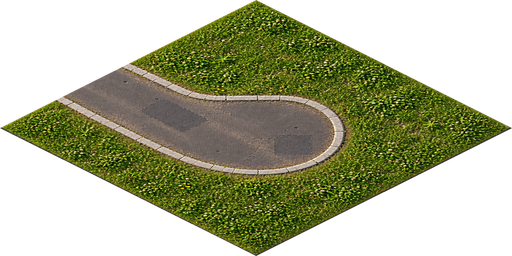
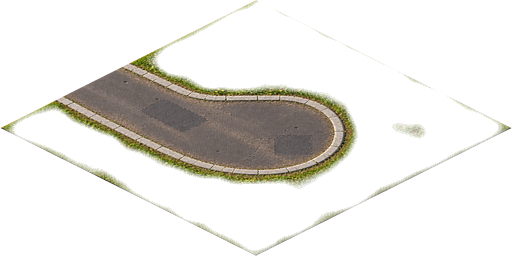
Silnice: vyriznuta trava, zatacky sedi na krizovatku, typ v karticce
1) Zatacky. Vozovka v nich potkavala hranu mimo stred, takze se na styku
   s rovinkou uskocila -- coz vypada jako otocena zatacka i jako nenavazujici
   spoj. Prompt je ted popisuje jako krizovatku, ktere dve ramena zarostla,
   a generuji se s krizovatkou jako vzorem. Sest dlazdic pregenerovano.

2) Dlazdicovost. Kazda dlazdice si nesla vlastni travnik a travniky se mezi
   obrazky lisily odstinem i hustotou, takze byla na mape videt mrizka.
   `fit-roads.py` travu vyrizne a zustane jen vozovka s obrubnikem; pod ni
   je skutecny teren, souvisly pres dlazdice.

   Prahy jsou zmerene, ne odhadnute: asfalt ma zelen -20 az -5, trava od 15
   vys, obrubnik kolem nuly. Prvni odhad 4 az 16 nechal polovinu travy
   polopruhlednou. A rozhoduje okoli, ne pixel -- zlute kvitky v trave same
   zelene nejsou a po prahovani po pixelech z nich zustaly tecky.

   Trava se rezе pred maskou kosoctverce: kdyby uz bylo za hranou pruhledno,
   rozostreni by tam zelen srazilo a po obvodu by zustal zeleny lem.

3) a 4) Karticka ukazuje typ silnice, kdyz na dlazdici nejaka je. Bez toho
   neslo poznat, jestli je vadny obrazek, nebo jen jiny typ.

5) Kontaktni list vsech sestnacti masek slozenych tak, jak je sklada renderer,
   ukazal, ze preklopeni je v poradku a vada byla jen v obrazcích zatacek.

diff --git a/src/ui/buildingInfo.ts b/src/ui/buildingInfo.ts
@@ -3,7 +3,7 @@ import type { Definition } from '@/content/schema';
 import type { ParcelExplanation } from '@/sim/diagnostics';
 import { buildingMonthlyTax, buildingMonthlyUpkeep } from '@/sim/systems/economy';
 import type { Building, WorldState } from '@/sim/world';
-import { TERRAIN } from '@/sim/layers';
+import { ROAD, TERRAIN } from '@/sim/layers';
 import { iconSvg } from './icons';
 import { button, el } from './dom';
 import { formatNumber, landValueTermKeys } from './format';
@@ -15,6 +15,19 @@ import type { I18n } from './i18n';
  * takže to musí sedět na `TERRAIN` v `sim/layers.ts` — na pořadí, ne na jméno
  * konstanty.
  */
+/**
+ * Jméno typu silnice pro překlad. Index je hodnota vrstvy `road`.
+ *
+ * Ukazuje se **jen když na dlaždici silnice opravdu je**. Autor si stěžoval,
+ * že u divně vypadající vozovky nepozná, jestli je vadný obrázek, nebo jen
+ * jiný typ — bez tohohle řádku se to z panelu vyčíst nedalo.
+ */
+const ROAD_KEYS: Readonly<Record<number, string>> = {
+  [ROAD.street]: 'street',
+  [ROAD.avenue]: 'avenue',
+  [ROAD.highway]: 'highway',
+};
+
 const TERRAIN_KEYS: Readonly<Record<number, string>> = {
   [TERRAIN.grass]: 'grass',
   [TERRAIN.water]: 'water',
@@ -307,6 +320,14 @@ export class BuildingInfo {
 
     parent.appendChild(el('h3', 'sheet__subtitle', t('ui.parcel.title')));
     this.appendSurface(parent, parcel.terrain);
+
+    const road = ROAD_KEYS[parcel.road];
+    if (road !== undefined) {
+      const row = el('div', 'sheet__surface');
+      const badge = el('div', 'sheet__surface-tile sheet__surface-tile--road');
+      row.append(badge, el('span', 'sheet__surface-name', t(`ui.road.${road}`)));
+      parent.appendChild(row);
+    }
 
     // Nejdřív odpověď na otázku, se kterou sem hráč přišel: proč se tu nestaví.
     // Teprve pod ní čísla, ze kterých se to dá odvodit.

diff --git a/src/sim/diagnostics.ts b/src/sim/diagnostics.ts
@@ -286,6 +286,11 @@ export interface ParcelExplanation {
   x: number;
   y: number;
   terrain: number;
+  /**
+   * Typ silnice **na téhle dlaždici**, ne u nejbližší. Nula znamená „tady
+   * silnice není" a je to jiná informace než `roadDistance`.
+   */
+  road: number;
   zone: number;
   category: RciCategory | null;
   /** Vzdálenost k nejbližší silnici; `null` znamená „dál, než kam růst sahá". */
@@ -457,6 +462,7 @@ export function explainParcel(
     x,
     y,
     terrain: world.layers.terrain[tile] ?? TERRAIN.grass,
+    road: world.layers.road[tile] ?? 0,
     zone,
     category,
     roadDistance: roadFactor > 0 ? distance : null,

diff --git a/src/style.css b/src/style.css
@@ -1497,3 +1497,9 @@ body {
 .lightbox__close:hover {
   border-color: #eef3f5;
 }
+
+/* Odznak typu silnice v rozboru parcely. Kosočtverec jako u povrchu, ale
+   plná barva — obrázek vozovky je průhledný a na kartičce by nebyl vidět. */
+.sheet__surface-tile--road {
+  background: #4a4b52;
+}

diff --git a/tools/fit-roads.py b/tools/fit-roads.py
@@ -20,7 +20,7 @@ import sys
 from collections import defaultdict
 
 import numpy as np
-from PIL import Image, ImageDraw
+from PIL import Image, ImageDraw, ImageFilter
 
 ROOT = os.path.dirname(os.path.dirname(os.path.abspath(__file__)))
 RAW = os.path.join(ROOT, 'art', 'roads', 'raw')
@@ -35,6 +35,18 @@ ALPHA_FLOOR = 8
 
 # Jak hluboko od hrany se meri. Uplne na hrane je antialiasing.
 PROBE = 6
+
+# Zelen, pod kterou je pixel jiste vozovka, a nad kterou jiste trava.
+#
+# **Zmereno, ne odhadnuto.** V krizovatce ma asfalt zelen od -20 do -5, trava
+# od 15 vys; mezi tim lezi obrubnik kolem nuly. Prah 0 az 9 je proto rozdeli
+# a obrubnik nechá cely. Prvni odhad 4 az 16 nechal polovinu travy
+# polopruhlednou a vypadalo to jako plisen.
+GRASS_LOW = 0
+GRASS_HIGH = 9
+
+# Jak daleko se kouka do okoli. Sest pixelu z 512 je asi metr skutecne zeme.
+GRASS_BLUR = 6
 
 # Vetsi odchylka od medianu rodiny uz je vada, kterou je videt jako schod.
 TOLERANCE = 0.08
@@ -64,8 +76,11 @@ def to_tile(image, corners):
     """
     top, right, bottom, left = corners
     box = (int(left[0]), int(top[1]), int(right[0]) + 1, int(bottom[1]) + 1)
-    tile = image.crop(box).resize((WIDTH, HEIGHT), Image.LANCZOS)
+    return image.crop(box).resize((WIDTH, HEIGHT), Image.LANCZOS).convert('RGBA')
 
+
+def diamond_mask():
+    """Maska presneho kosoctverce. Tvar delame my, ne generator."""
     # Maska se kresli ve ctyrnasobku a zmensi, jinak jsou hrany zubate.
     scale = 4
     mask = Image.new('L', (WIDTH * scale, HEIGHT * scale), 0)
@@ -78,25 +93,40 @@ def to_tile(image, corners):
         ],
         fill=255,
     )
-    mask = mask.resize((WIDTH, HEIGHT), Image.LANCZOS)
-
-    out = tile.convert('RGBA')
-    out.putalpha(mask)
-    return out
+    return mask.resize((WIDTH, HEIGHT), Image.LANCZOS)
 
 
-def is_grass(rgb):
-    """Je pixel trava?
+def cut_grass(tile):
+    """Vyrizne travu: zustane jen vozovka, obrubnik a uzka krajnice.
 
-    **Zelen, ne sytost.** Sytost trava a asfalt rozlisi jen zhruba: vysprávka
-    v asfaltu je nahnedla a projde jako trava, kdezto seda dlazba u obrubniku
-    projde jako vozovka. Zelen je jednoznacna -- travu pozna podle toho, ze ma
-    zelenou slozku vyssi nez obe ostatni, a nic jineho na dlazdici takove neni.
+    **Kazda dlazdice si nesla vlastni travnik** a travniky se mezi obrazky
+    lisily odstinem i hustotou, takze byla na mape videt mrizka dlazdic. Autor
+    to nahlasil slovy "silnice jsou moc dlazdicove".
+
+    Trava je zelena, asfalt i beton ne. Prechod je mekky pres nekolik urovni
+    zelene, aby okraj krajnice nebyl vystrizeny nuzkami.
     """
-    r = rgb[:, :, 0].astype(int)
-    g = rgb[:, :, 1].astype(int)
-    b = rgb[:, :, 2].astype(int)
-    return (g - r > 12) & (g - b > 12)
+    array = np.asarray(tile).astype(int)
+    r, g, b = array[:, :, 0], array[:, :, 1], array[:, :, 2]
+    green = g - np.maximum(r, b)
+
+    # **Rozhoduje okoli, ne jeden pixel.** V trave jsou zlute kvitky a suche
+    # stebla, ktere same zelene nejsou; po prahovani po pixelech z nich zustaly
+    # tecky rozsypane kolem silnice. Rozmazani je utopi v zeleni kolem, kdezto
+    # asfalt zustane sedy -- je ho souvisla plocha.
+    smooth = np.asarray(
+        Image.fromarray(np.clip(green + 128, 0, 255).astype('uint8'), 'L').filter(
+            ImageFilter.GaussianBlur(GRASS_BLUR)
+        )
+    ).astype(int) - 128
+
+    # Pod GRASS_LOW je to jiste vozovka, nad GRASS_HIGH jiste trava.
+    keep = np.clip((GRASS_HIGH - smooth) / (GRASS_HIGH - GRASS_LOW), 0.0, 1.0)
+    alpha = (np.asarray(tile)[:, :, 3] * keep).astype('uint8')
+
+    out = tile.copy()
+    out.putalpha(Image.fromarray(alpha, 'L'))
+    return out
 
 
 def edge_band(tile, edge):
@@ -105,10 +135,13 @@ def edge_band(tile, edge):
     Jde se **rovnobezne s hranou**, kousek dovnitr. Kosoctverec ma hrany sikmo,
     takze se vzorkuje po usecce mezi dvema vrcholy posunute ke stredu.
     """
+    # **Meri se podle kryti, ne podle barvy.** Po vyrezu travy je vozovka
+    # jedine, co na dlazdici zbylo, takze "je tu silnice?" je totez co "je tu
+    # neco?". Barevne detektory pred tim selhavaly: sytost brala vysprávku
+    # v asfaltu jako travu, zelen zase obrubnik jako silnici.
     array = np.asarray(tile)
-    rgb = array[:, :, :3]
     alpha = array[:, :, 3]
-    grass = is_grass(rgb)
+    solid = alpha > 160
 
     corners = {
         'n': ((WIDTH / 2, 0), (WIDTH - 1, HEIGHT / 2)),
@@ -131,9 +164,7 @@ def edge_band(tile, edge):
         py = int(round(y + (cy - y) / length * PROBE))
         if not (0 <= px < WIDTH and 0 <= py < HEIGHT):
             continue
-        if alpha[py, px] < 128:
-            continue
-        hits.append((t, not bool(grass[py, px])))
+        hits.append((t, bool(solid[py, px])))
 
     # **Nejdelsi souvisly usek**, ne rozpeti od prvniho k poslednimu pixelu.
     # U krizovatky lezi u vrcholu kosoctverce obrubnik sousedniho ramene a do
@@ -164,6 +195,7 @@ def main():
         return 1
 
     os.makedirs(OUT, exist_ok=True)
+    mask = diamond_mask()
     measured = {}
     done = 0
 
@@ -177,7 +209,18 @@ def main():
             print(f'  {stem}: nenasel jsem kosoctverec')
             continue
 
-        tile = to_tile(image, corners)
+        # **Trava se rezе pred maskou.** Rozostreni saha do okoli, a kdyby uz
+        # bylo za hranou kosoctverce pruhledno, vysla by tam zelen niz a po
+        # obvodu dlazdice by zustal zeleny lem -- tedy presne ta mrizka, kvuli
+        # ktere se trava reze.
+        tile = cut_grass(to_tile(image, corners))
+        tile.putalpha(
+            Image.fromarray(
+                (np.asarray(tile)[:, :, 3].astype(int) * np.asarray(mask).astype(int) // 255)
+                .astype('uint8'),
+                'L',
+            )
+        )
         tile.save(os.path.join(OUT, name))
         done += 1
 

diff --git a/docs/12-SILNICE.md b/docs/12-SILNICE.md
@@ -116,8 +116,8 @@ kreslí renderer. Generátor to nikdy netrefí a přerušená čára je vidět v
 | id | prompt |
 |---|---|
 | `street__ew` | A narrow asphalt street crossing the tile straight through, entering at the middle of the upper-left edge and leaving at the middle of the lower-right edge. Grass on both sides. |
-| `street__nw` | A narrow asphalt street that enters at the middle of the upper-left edge and turns to leave at the middle of the upper-right edge, a smooth bend. Grass fills the rest. |
-| `street__ne` | A narrow asphalt street that enters at the middle of the upper-right edge and turns to leave at the middle of the lower-right edge, a smooth bend. Grass fills the rest. |
+| `street__nw` | Exactly the reference crossroads tile, but with only two carriageways left: the one leaving through the middle of the upper-right edge and the one leaving through the middle of the upper-left edge. They meet in the centre of the tile in a quarter-circle bend. The other two carriageways are gone and their place is plain grass. The two carriageways that remain are in EXACTLY the same place and EXACTLY the same width as in the reference. |
+| `street__ne` | Exactly the reference crossroads tile, but with only two carriageways left: the one leaving through the middle of the upper-right edge and the one leaving through the middle of the lower-right edge. They meet in the centre of the tile in a quarter-circle bend. The other two carriageways are gone and their place is plain grass. The two carriageways that remain are in EXACTLY the same place and EXACTLY the same width as in the reference. |
 | `street__new` | A narrow asphalt street crossing from the middle of the upper-left edge to the middle of the lower-right edge, with a third branch leaving at the middle of the upper-right edge: a T junction. Grass fills the rest. |
 | `street__nesw` | A narrow asphalt crossroads: carriageways leave through the middle of all four edges and meet in the centre of the tile. Grass in the four pointed corners only. |
 | `street__w` | A narrow asphalt street entering at the middle of the upper-left edge and ending in the middle of the tile in a rounded dead end. Grass fills the rest. |
@@ -128,8 +128,8 @@ kreslí renderer. Generátor to nikdy netrefí a přerušená čára je vidět v
 | id | prompt |
 |---|---|
 | `avenue__ew` | A wide asphalt avenue crossing the tile straight through, entering at the middle of the upper-left edge and leaving at the middle of the lower-right edge, darker and smoother than a side street. Narrow grass verges on both sides. |
-| `avenue__nw` | A wide asphalt avenue that enters at the middle of the upper-left edge and turns to leave at the middle of the upper-right edge, a broad sweeping bend. Grass fills the rest. |
-| `avenue__ne` | A wide asphalt avenue that enters at the middle of the upper-right edge and turns to leave at the middle of the lower-right edge, a broad sweeping bend. Grass fills the rest. |
+| `avenue__nw` | Exactly the reference crossroads tile, but with only two carriageways left: the one leaving through the middle of the upper-right edge and the one leaving through the middle of the upper-left edge. They meet in the centre of the tile in a quarter-circle bend. The other two carriageways are gone and their place is plain grass. The two carriageways that remain are in EXACTLY the same place and EXACTLY the same width as in the reference. |
+| `avenue__ne` | Exactly the reference crossroads tile, but with only two carriageways left: the one leaving through the middle of the upper-right edge and the one leaving through the middle of the lower-right edge. They meet in the centre of the tile in a quarter-circle bend. The other two carriageways are gone and their place is plain grass. The two carriageways that remain are in EXACTLY the same place and EXACTLY the same width as in the reference. |
 | `avenue__new` | A wide asphalt avenue crossing from the middle of the upper-left edge to the middle of the lower-right edge, with a third branch leaving at the middle of the upper-right edge: a T junction. Grass fills the rest. |
 | `avenue__nesw` | A wide asphalt crossroads: carriageways leave through the middle of all four edges and meet in a large square junction in the centre. Grass in the four pointed corners only. |
 | `avenue__w` | A wide asphalt avenue entering at the middle of the upper-left edge and ending in the middle of the tile in a rounded dead end. Grass fills the rest. |
@@ -140,8 +140,8 @@ kreslí renderer. Generátor to nikdy netrefí a přerušená čára je vidět v
 | id | prompt |
 |---|---|
 | `highway__ew` | A very wide fresh dark asphalt highway crossing the tile straight through, entering at the middle of the upper-left edge and leaving at the middle of the lower-right edge, with a low concrete crash barrier along both sides. Thin grass verges. |
-| `highway__nw` | A very wide fresh dark asphalt highway that enters at the middle of the upper-left edge and turns to leave at the middle of the upper-right edge, a long sweeping bend with a concrete crash barrier along both sides. Grass fills the rest. |
-| `highway__ne` | A very wide fresh dark asphalt highway that enters at the middle of the upper-right edge and turns to leave at the middle of the lower-right edge, a long sweeping bend with a concrete crash barrier along both sides. Grass fills the rest. |
+| `highway__nw` | Exactly the reference crossroads tile, but with only two carriageways left: the one leaving through the middle of the upper-right edge and the one leaving through the middle of the upper-left edge. They meet in the centre of the tile in a quarter-circle bend. The other two carriageways are gone and their place is plain grass. The two carriageways that remain are in EXACTLY the same place and EXACTLY the same width as in the reference. |
+| `highway__ne` | Exactly the reference crossroads tile, but with only two carriageways left: the one leaving through the middle of the upper-right edge and the one leaving through the middle of the lower-right edge. They meet in the centre of the tile in a quarter-circle bend. The other two carriageways are gone and their place is plain grass. The two carriageways that remain are in EXACTLY the same place and EXACTLY the same width as in the reference. |
 | `highway__new` | A very wide fresh dark asphalt highway crossing from the middle of the upper-left edge to the middle of the lower-right edge, with a third carriageway leaving at the middle of the upper-right edge: a large junction. Grass fills the rest. |
 | `highway__nesw` | A very wide fresh dark asphalt highway crossroads: carriageways leave through the middle of all four edges and meet in a large open junction in the centre. Grass in the four pointed corners only. |
 | `highway__w` | A very wide fresh dark asphalt highway entering at the middle of the upper-left edge and ending in the middle of the tile in a blunt closed end with a concrete barrier across it. Grass fills the rest. |
